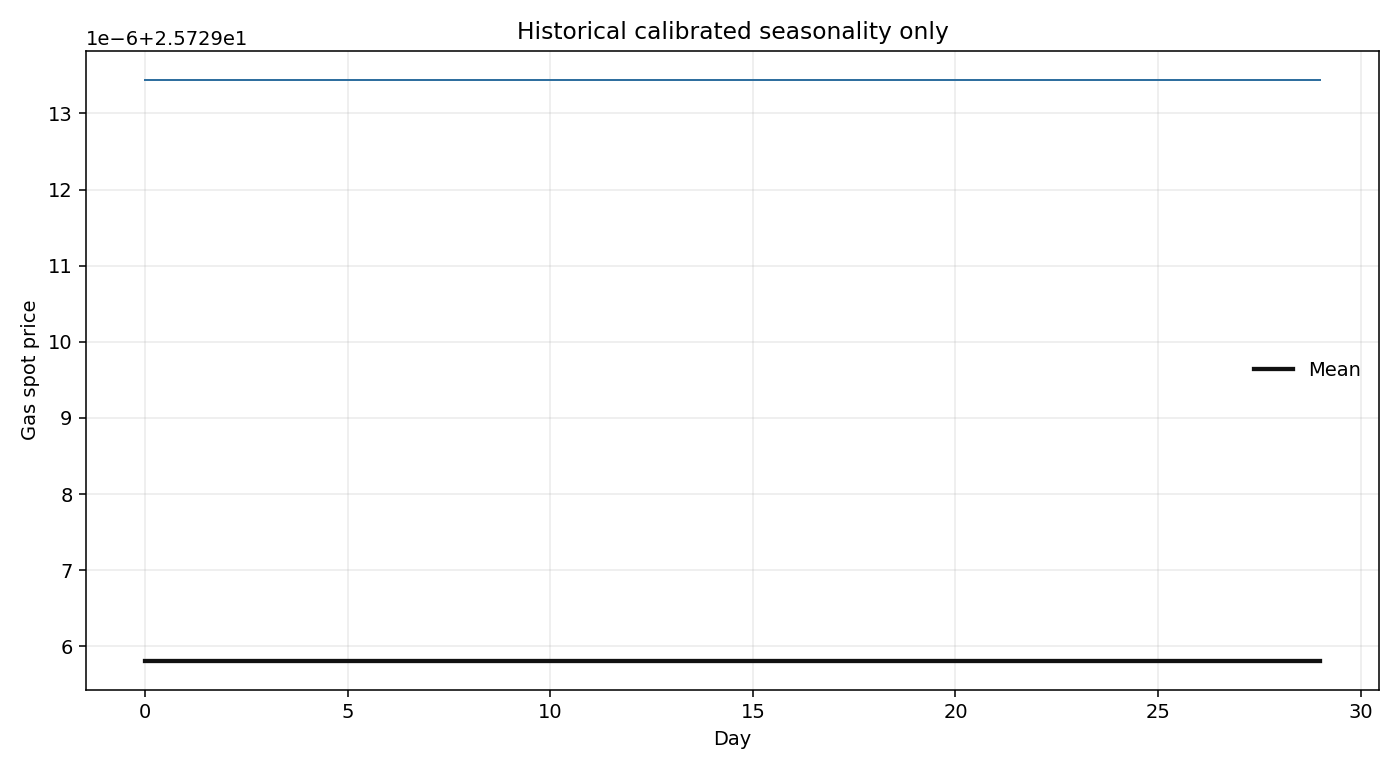
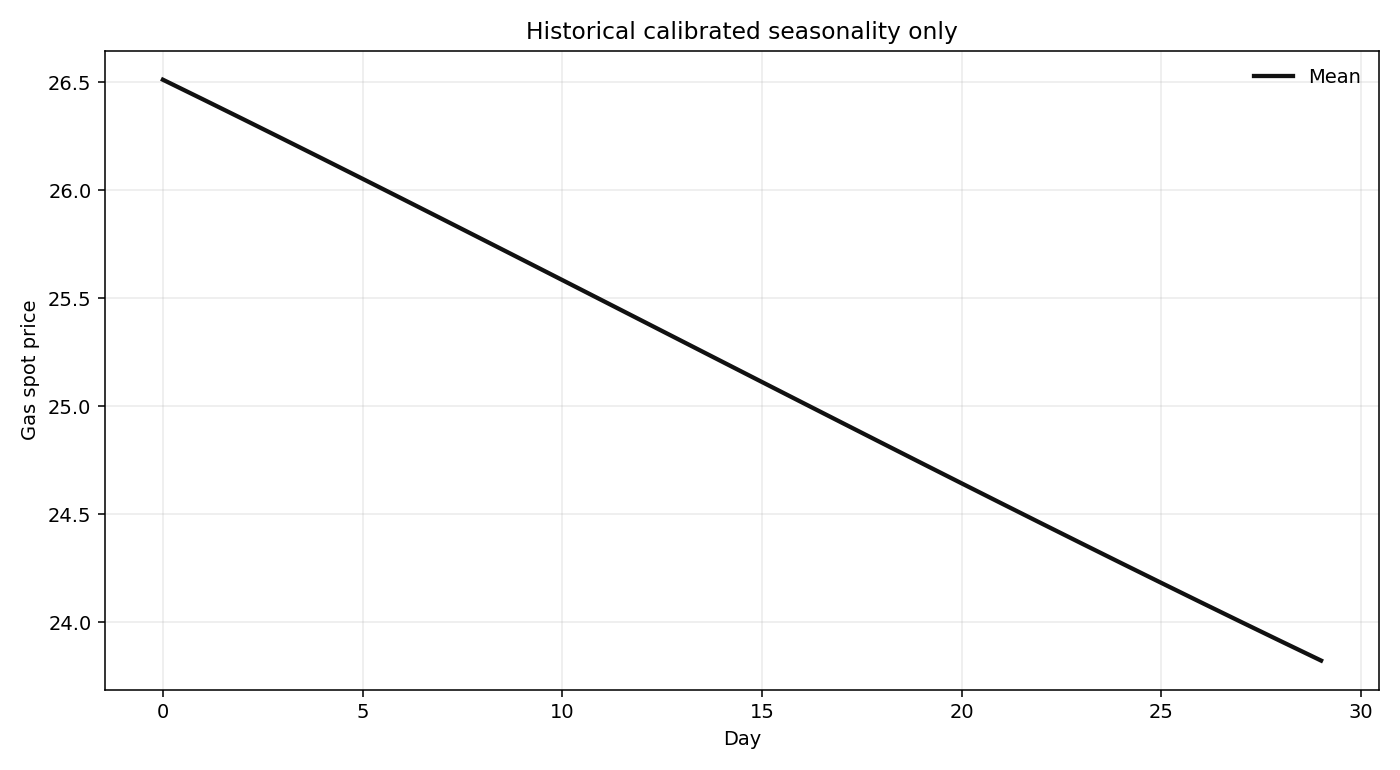
feat: change season curve to a periodic Fourier curve

diff --git a/src/gas_storage_rl/prices/seasonal.py b/src/gas_storage_rl/prices/seasonal.py
@@ -44,11 +44,34 @@ class MonthlySeasonality:
         if len(self.monthly_log_adjustments) != 12:
             raise ValueError("monthly_log_adjustments must contain exactly 12 values")
 
-    def log_curve_for_dates(self, dates: pd.Series | pd.DatetimeIndex) -> np.ndarray:
-        """Returns seasonal log-prices for the provided dates."""
-        months = pd.DatetimeIndex(dates).month.to_numpy()
+    def log_curve_for_dates(
+        self,
+        dates: pd.Series | pd.DatetimeIndex,
+        method: str = "fourier",
+        fourier_harmonics: int = 2,
+    ) -> np.ndarray:
+        """Returns seasonal log-prices for the provided dates.
+
+        Args:
+            dates: Dates at which to evaluate the seasonal curve.
+            method: Either ``fourier`` for a smooth periodic curve or ``step``
+                for calendar-month constants.
+            fourier_harmonics: Number of Fourier harmonics used for smoothing.
+
+        Returns:
+            Seasonal log-price array with one value per input date.
+        """
         adjustments = np.asarray(self.monthly_log_adjustments, dtype=np.float64)
-        return self.base_log_price + adjustments[months - 1]
+        if method == "step":
+            months = pd.DatetimeIndex(dates).month.to_numpy()
+            return self.base_log_price + adjustments[months - 1]
+        if method != "fourier":
+            raise ValueError(f"Unknown seasonality method: {method}")
+        return self.base_log_price + evaluate_fourier_monthly_seasonality(
+            dates,
+            adjustments,
+            harmonics=fourier_harmonics,
+        )
 
     def as_params(self) -> dict[str, float | list[float]]:
         """Serializes the seasonality for config metadata."""
@@ -58,6 +81,8 @@ class MonthlySeasonality:
             "monthly_log_seasonality": [
                 float(value) for value in self.monthly_log_adjustments
             ],
+            "seasonality_interpolation": "fourier",
+            "seasonality_fourier_harmonics": 2,
         }
 
 
@@ -90,3 +115,49 @@ def fit_monthly_log_seasonality(
         base_log_price=base_log_price,
         monthly_log_adjustments=tuple(values),
     )
+
+
+def evaluate_fourier_monthly_seasonality(
+    dates: pd.Series | pd.DatetimeIndex,
+    monthly_log_adjustments: np.ndarray,
+    harmonics: int = 2,
+) -> np.ndarray:
+    """Evaluates a smooth periodic Fourier curve fitted to monthly values.
+
+    Args:
+        dates: Dates at which to evaluate the seasonal adjustment.
+        monthly_log_adjustments: Twelve zero-mean monthly log adjustments.
+        harmonics: Number of sine/cosine harmonics.
+
+    Returns:
+        Smooth daily seasonal log adjustments.
+    """
+    if len(monthly_log_adjustments) != 12:
+        raise ValueError("monthly_log_adjustments must contain exactly 12 values")
+    if harmonics < 1:
+        raise ValueError("harmonics must be positive")
+    fitted_harmonics = min(int(harmonics), 5)
+    month_midpoints = np.asarray(
+        [15, 45, 74, 105, 135, 166, 196, 227, 258, 288, 319, 349],
+        dtype=np.float64,
+    )
+    coefficients = np.linalg.lstsq(
+        _fourier_design(month_midpoints / 365.0, fitted_harmonics),
+        monthly_log_adjustments,
+        rcond=None,
+    )[0]
+    date_index = pd.DatetimeIndex(dates)
+    year_lengths = np.where(date_index.is_leap_year, 366.0, 365.0)
+    fractions = (date_index.dayofyear.to_numpy(dtype=np.float64) - 0.5) / year_lengths
+    values = _fourier_design(fractions, fitted_harmonics) @ coefficients
+    return values - np.mean(values)
+
+
+def _fourier_design(fractions: np.ndarray, harmonics: int) -> np.ndarray:
+    """Builds a Fourier design matrix for annual fractions."""
+    columns = [np.ones_like(fractions, dtype=np.float64)]
+    for harmonic in range(1, harmonics + 1):
+        angle = 2.0 * np.pi * harmonic * fractions
+        columns.append(np.sin(angle))
+        columns.append(np.cos(angle))
+    return np.column_stack(columns)

diff --git a/src/gas_storage_rl/prices/generators.py b/src/gas_storage_rl/prices/generators.py
@@ -11,7 +11,10 @@ import pandas as pd
 from gas_storage_rl.prices.calibration import default_price_parameters
 from gas_storage_rl.prices.jump_process import simulate_jump_component
 from gas_storage_rl.prices.ou_process import simulate_ou_residuals
-from gas_storage_rl.prices.seasonal import seasonal_log_curve
+from gas_storage_rl.prices.seasonal import (
+    evaluate_fourier_monthly_seasonality,
+    seasonal_log_curve,
+)
 
 
 @dataclass(frozen=True)
@@ -130,6 +133,8 @@ def generate_calibrated_price_paths(
         episode_length=episode_length,
         base_log_price=float(params["base_log_price"]),
         monthly_log_seasonality=params["monthly_log_seasonality"],
+        method=str(params.get("seasonality_interpolation", "fourier")),
+        fourier_harmonics=int(params.get("seasonality_fourier_harmonics", 2)),
     )
     residuals = np.zeros((n_paths, episode_length), dtype=np.float64)
     if include_ou:
@@ -161,13 +166,23 @@ def calibrated_monthly_log_curve(
     base_log_price: float,
     monthly_log_seasonality: list[float] | tuple[float, ...],
     start_date: str = "2001-01-01",
+    method: str = "fourier",
+    fourier_harmonics: int = 2,
 ) -> np.ndarray:
     """Creates a daily log seasonal curve from calibrated monthly values."""
     if len(monthly_log_seasonality) != 12:
         raise ValueError("monthly_log_seasonality must contain exactly 12 values")
     dates = pd.date_range(start=start_date, periods=episode_length, freq="D")
     adjustments = np.asarray(monthly_log_seasonality, dtype=np.float64)
-    return base_log_price + adjustments[dates.month.to_numpy() - 1]
+    if method == "step":
+        return base_log_price + adjustments[dates.month.to_numpy() - 1]
+    if method != "fourier":
+        raise ValueError(f"Unknown seasonality method: {method}")
+    return base_log_price + evaluate_fourier_monthly_seasonality(
+        dates,
+        adjustments,
+        harmonics=fourier_harmonics,
+    )
 
 
 def _simulate_ar1_residuals(

diff --git a/tests/test_historical_pipeline.py b/tests/test_historical_pipeline.py
@@ -12,7 +12,10 @@ from gas_storage_rl.data.path_dataset import (
     load_or_generate_historical_backtest_dataset,
 )
 from gas_storage_rl.prices.calibration import calibrate_historical_price_process
-from gas_storage_rl.prices.generators import generate_price_paths
+from gas_storage_rl.prices.generators import (
+    calibrated_monthly_log_curve,
+    generate_price_paths,
+)
 from gas_storage_rl.prices.historical_data import load_historical_price_csv
 from gas_storage_rl.prices.seasonal import fit_monthly_log_seasonality
 
@@ -128,6 +131,27 @@ def test_historical_environment_variants_use_calibrated_components(tmp_path) -> 
     assert not np.allclose(ou_paths[0], ou_paths[1])
     assert np.all(jump_paths > 0.0)
     assert not np.allclose(jump_paths, ou_paths)
+
+
+def test_historical_seasonality_uses_smooth_fourier_curve_by_default() -> None:
+    """Fourier seasonality avoids hard monthly jumps in daily curves."""
+    monthly_adjustments = [0.5, -0.5, 0.2, 0.1, 0.0, -0.1, -0.2, 0.1, 0.2, 0.0, -0.1, -0.2]
+
+    step_curve = calibrated_monthly_log_curve(
+        episode_length=40,
+        base_log_price=0.0,
+        monthly_log_seasonality=monthly_adjustments,
+        method="step",
+    )
+    fourier_curve = calibrated_monthly_log_curve(
+        episode_length=40,
+        base_log_price=0.0,
+        monthly_log_seasonality=monthly_adjustments,
+    )
+
+    step_month_change = abs(step_curve[31] - step_curve[30])
+    fourier_month_change = abs(fourier_curve[31] - fourier_curve[30])
+    assert fourier_month_change < step_month_change
 
 
 def test_historical_backtest_windows_respect_start_date_and_cache(tmp_path) -> None:

diff --git a/README.md b/README.md
@@ -16,7 +16,7 @@ Generated price datasets are cached by default under `data/cache/{dataset_hash}/
 
 ## Historical Calibration Pipeline
 
-The repository can also calibrate synthetic prices from prepared historical CSVs while keeping calibration and backtesting chronologically separate. Monthly calibration data up to and including `2024-12-31` is used to estimate a log-seasonal calendar-month component. Daily calibration data up to the same cutoff is deseasonalized into log residuals, then used to fit an AR(1)/OU residual process and a simple jump component from large AR(1) innovations.
+The repository can also calibrate synthetic prices from prepared historical CSVs while keeping calibration and backtesting chronologically separate. Monthly calibration data up to and including `2024-12-31` is used to estimate a log-seasonal calendar-month component. The twelve monthly seasonal values are evaluated as a smooth periodic Fourier curve for daily paths, avoiding hard jumps at month boundaries. Daily calibration data up to the same cutoff is deseasonalized into log residuals, then used to fit an AR(1)/OU residual process and a simple jump component from large AR(1) innovations.
 
 Held-out historical backtesting starts at `2025-01-01`. Those backtest prices are never used for seasonality, residual, OU, or jump calibration. They are only converted into separate rolling-window episodes.
 

diff --git a/docs/SPEC.md b/docs/SPEC.md
@@ -21,7 +21,11 @@ Monthly calibration prices estimate a calendar-month log seasonality:
 s_m = mean(log(monthly_price) - mean(log(monthly_price)) | month = m)
 ```
 
-The monthly adjustments are normalized to zero mean. Daily calibration prices are converted to residuals:
+The monthly adjustments are normalized to zero mean. For daily evaluation, the
+default historical pipeline fits a smooth periodic Fourier curve to the twelve
+monthly adjustments. This keeps the monthly calibration interpretation while
+removing artificial step changes at month boundaries. Daily calibration prices
+are converted to residuals:
 
 ```text
 r_t = log(daily_price_t) - mean_log_price - s_month(t)
